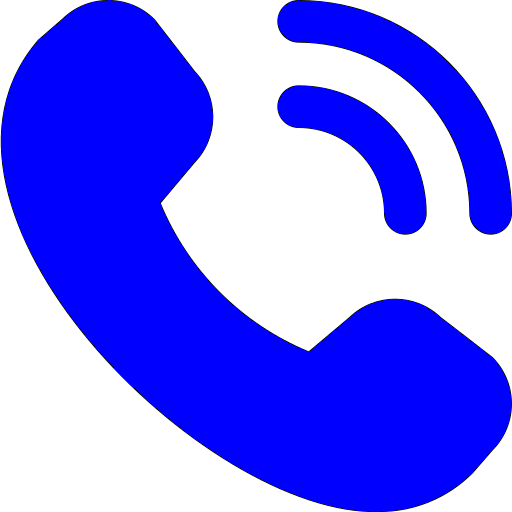
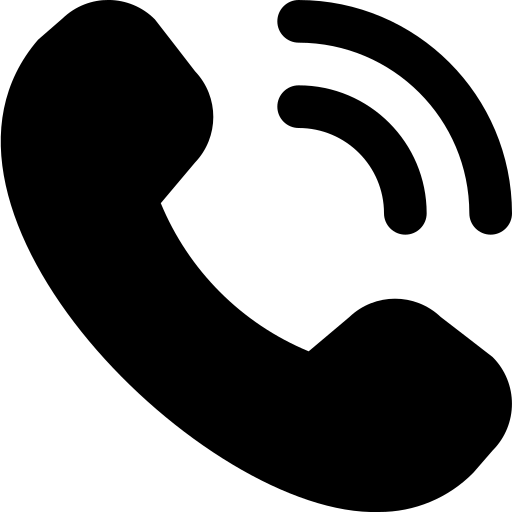
Mode_alt
Alternar icone por modo do navegador.

diff --git a/background.js b/background.js
@@ -1,5 +1,64 @@
+const THEME_MONITOR_DOCUMENT = "theme-monitor.html";
+let creatingThemeMonitor;
+
+async function ensureThemeMonitor() {
+    const documentUrl = chrome.runtime.getURL(THEME_MONITOR_DOCUMENT);
+    let hasThemeMonitor;
+
+    if (chrome.runtime.getContexts) {
+        const contexts = await chrome.runtime.getContexts({
+            contextTypes: ["OFFSCREEN_DOCUMENT"],
+            documentUrls: [documentUrl]
+        });
+        hasThemeMonitor = contexts.length > 0;
+    } else {
+        const clientsList = await clients.matchAll();
+        hasThemeMonitor = clientsList.some(client => client.url === documentUrl);
+    }
+
+    if (hasThemeMonitor) {
+        return;
+    }
+
+    if (!creatingThemeMonitor) {
+        creatingThemeMonitor = chrome.offscreen.createDocument({
+            url: THEME_MONITOR_DOCUMENT,
+            reasons: ["MATCH_MEDIA"],
+            justification: "Detectar mudanças no tema do navegador para atualizar o ícone."
+        }).finally(() => {
+            creatingThemeMonitor = null;
+        });
+    }
+
+    await creatingThemeMonitor;
+}
+
+function startThemeMonitor() {
+    ensureThemeMonitor().catch(error => {
+        console.error("Não foi possível iniciar o monitor de tema:", error);
+    });
+}
+
+chrome.runtime.onInstalled.addListener(startThemeMonitor);
+chrome.runtime.onStartup.addListener(startThemeMonitor);
+startThemeMonitor();
+
 // Recebe mensagens do content script e coordena ações fora da página do Olos.
 chrome.runtime.onMessage.addListener((message, sender) => {
+
+    if (message.type === "themeChanged" && typeof message.isDark === "boolean") {
+        chrome.action.setIcon({
+            path: message.isDark
+                ? "icon_dark_mode.png"
+                : "icon_light_mode.png"
+        }, () => {
+            if (chrome.runtime.lastError) {
+                console.error("Não foi possível atualizar o ícone:", chrome.runtime.lastError);
+            }
+        });
+
+        return;
+    }
 
     // Trata o alerta de uma nova chamada recebida.
     if (message.type === "incomingCall") {

diff --git a/theme-monitor.js b/theme-monitor.js
@@ -1,0 +1,20 @@
+const colorScheme = window.matchMedia("(prefers-color-scheme: dark)");
+
+function reportColorScheme() {
+    chrome.runtime.sendMessage({
+        type: "themeChanged",
+        isDark: colorScheme.matches
+    }, () => {
+        if (chrome.runtime.lastError) {
+            console.error("Não foi possível enviar a preferência de tema:", chrome.runtime.lastError);
+        }
+    });
+}
+
+reportColorScheme();
+
+if (colorScheme.addEventListener) {
+    colorScheme.addEventListener("change", reportColorScheme);
+} else {
+    colorScheme.addListener(reportColorScheme);
+}

diff --git a/theme-monitor.html b/theme-monitor.html
@@ -1,0 +1,8 @@
+<!doctype html>
+<html>
+<head>
+    <meta charset="utf-8">
+    <script src="theme-monitor.js"></script>
+</head>
+<body></body>
+</html>
